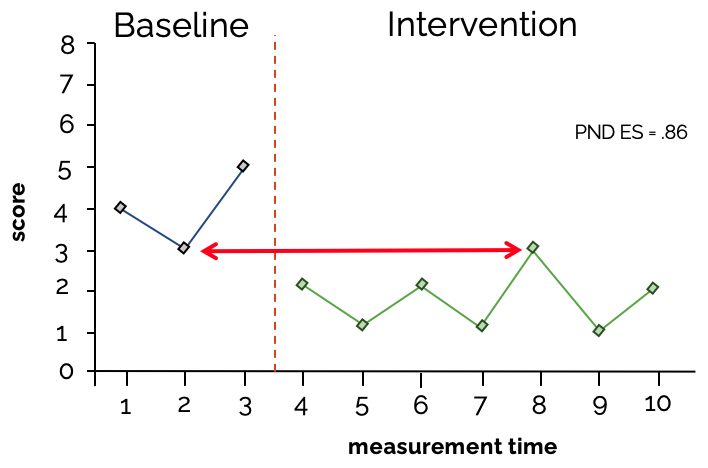
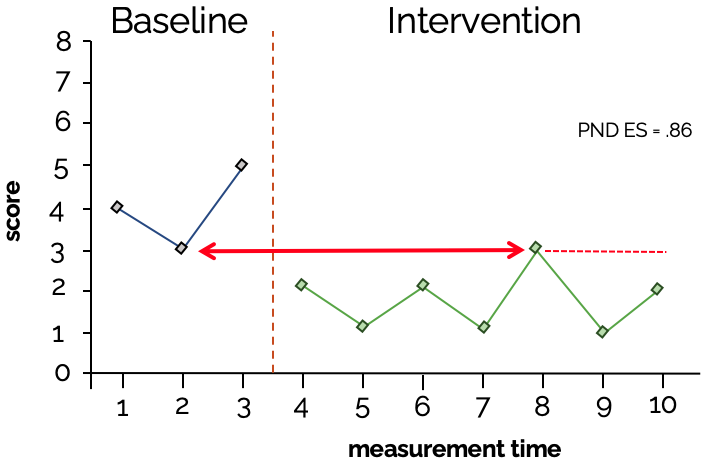
PND

diff --git a/Untitled.html b/Untitled.html
@@ -809,17 +809,23 @@ background-size: 15%
 - Es una medida precisa cuando los datos demuestran características estables sin tendencias o valores atípicos. 
 
 ---
-background-image: url(https://cdn-prod.voxy.com/wp-content/uploads/2017/10/DataScience-Color.png)
-background-position:8% 60%
-background-size: 15%
-##¿cómo se calcula?
+background-image: url(https://github.com/danielesnm/SCEDs/blob/main/img/PND.png?raw=true)
+background-position:10% 95%
+background-size: 40%
 # &lt;svg xmlns="http://www.w3.org/2000/svg" viewBox="0 0 576 512" class="rfa" style="height:0.75em;fill:salmon;position:relative;"&gt;&lt;path d="M571.31 251.31l-22.62-22.62c-6.25-6.25-16.38-6.25-22.63 0L480 274.75l-46.06-46.06c-6.25-6.25-16.38-6.25-22.63 0l-22.62 22.62c-6.25 6.25-6.25 16.38 0 22.63L434.75 320l-46.06 46.06c-6.25 6.25-6.25 16.38 0 22.63l22.62 22.62c6.25 6.25 16.38 6.25 22.63 0L480 365.25l46.06 46.06c6.25 6.25 16.38 6.25 22.63 0l22.62-22.62c6.25-6.25 6.25-16.38 0-22.63L525.25 320l46.06-46.06c6.25-6.25 6.25-16.38 0-22.63zM552 0H307.65c-14.54 0-27.26 9.8-30.95 23.87l-84.79 322.8-58.41-106.1A32.008 32.008 0 0 0 105.47 224H24c-13.25 0-24 10.74-24 24v48c0 13.25 10.75 24 24 24h43.62l88.88 163.73C168.99 503.5 186.3 512 204.94 512c17.27 0 44.44-9 54.28-41.48L357.03 96H552c13.25 0 24-10.75 24-24V24c0-13.26-10.75-24-24-24z"/&gt;&lt;/svg&gt; PND. % of non-overlap data
+.left-column[### .pink[¿cómo se calcula?]
+]  
+&lt;svg xmlns="http://www.w3.org/2000/svg" viewBox="0 0 256 512" class="rfa" style="height:0.75em;fill:salmon;position:relative;"&gt;&lt;path d="M224.3 273l-136 136c-9.4 9.4-24.6 9.4-33.9 0l-22.6-22.6c-9.4-9.4-9.4-24.6 0-33.9l96.4-96.4-96.4-96.4c-9.4-9.4-9.4-24.6 0-33.9L54.3 103c9.4-9.4 24.6-9.4 33.9 0l136 136c9.5 9.4 9.5 24.6.1 34z"/&gt;&lt;/svg&gt; Id. la puntuación más extrema en Fase A. &lt;svg xmlns="http://www.w3.org/2000/svg" viewBox="0 0 256 512" class="rfa" style="height:0.75em;fill:salmon;position:relative;"&gt;&lt;path d="M224.3 273l-136 136c-9.4 9.4-24.6 9.4-33.9 0l-22.6-22.6c-9.4-9.4-9.4-24.6 0-33.9l96.4-96.4-96.4-96.4c-9.4-9.4-9.4-24.6 0-33.9L54.3 103c9.4-9.4 24.6-9.4 33.9 0l136 136c9.5 9.4 9.5 24.6.1 34z"/&gt;&lt;/svg&gt; Id. los datos en Fase B, que excede este nivel. &lt;svg xmlns="http://www.w3.org/2000/svg" viewBox="0 0 256 512" class="rfa" style="height:0.75em;fill:salmon;position:relative;"&gt;&lt;path d="M224.3 273l-136 136c-9.4 9.4-24.6 9.4-33.9 0l-22.6-22.6c-9.4-9.4-9.4-24.6 0-33.9l96.4-96.4-96.4-96.4c-9.4-9.4-9.4-24.6 0-33.9L54.3 103c9.4-9.4 24.6-9.4 33.9 0l136 136c9.5 9.4 9.5 24.6.1 34z"/&gt;&lt;/svg&gt; 6 datos de los 7 posibles en la Fase B demuestran una mejora en la puntuación (6/7 = 0.86 PND ES).
 
-1.	Identificar la puntuación más extrema en Fase A. 
+--
 
-2.	Identificar el número de datos en Fase B, que excede este nivel. 
+&lt;br&gt;&lt;br&gt;&lt;br&gt;
 
-3.	6 datos de los 7 posibles Fase B demuestran una mejora en la puntuación. Se dividen estos datos y tenemos ES para PND (6/7 = 0.86 PND).
+.right[ • 70% is effective  
+• 50% to 70% is questionable  
+• &lt;50% is no observed effect  
+[(Scruggs et al., 1987)](https://journals.sagepub.com/doi/abs/10.1177/074193258700800206?journalCode=rsed)
+]
 
 ???
 1a.	Los valores de los datos de la línea de base en este ejemplo (ver Figura 1) son 4, 3 y 5. Tres es la puntuación mejorada más extrema, ya que tiene el valor más bajo en la medida de pánico en la línea de base. 
